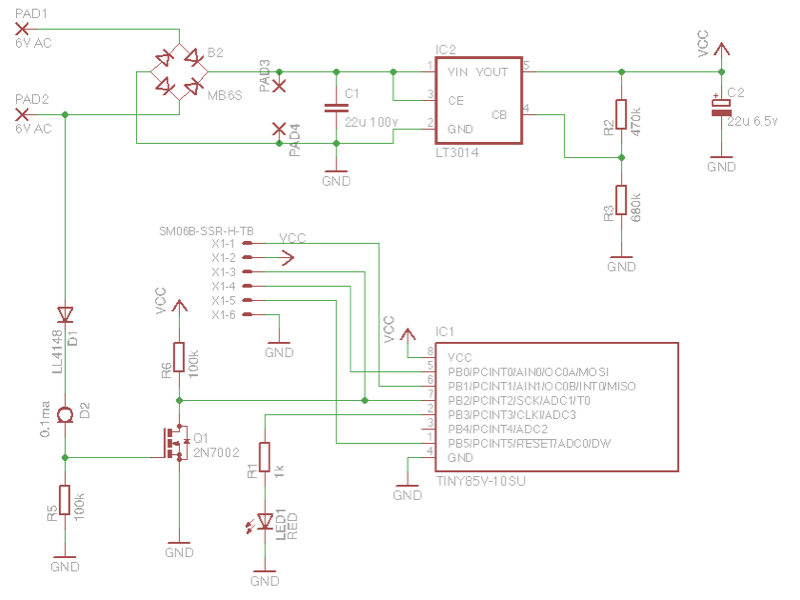
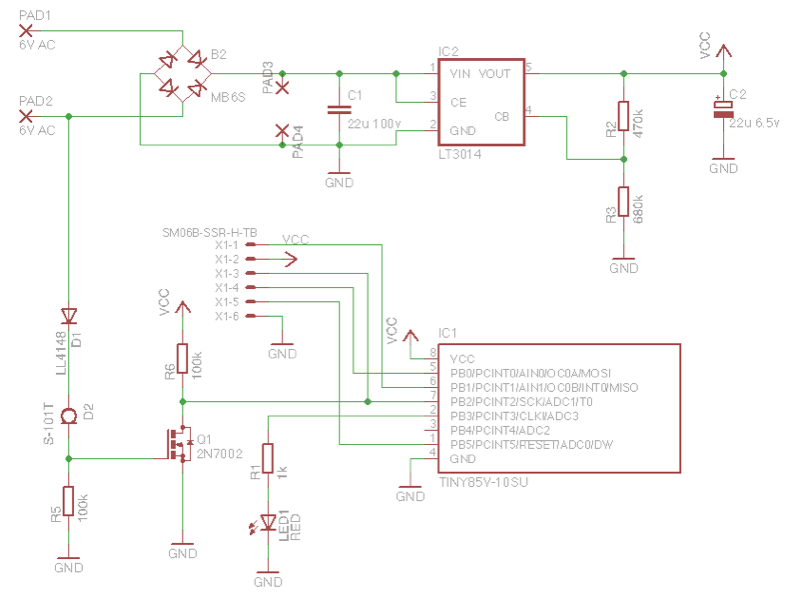
updated docs

Changed region(s): [[0.0, 0.06, 0.9688, 0.99], [0.0, 0.0, 0.2188, 0.09], [0.3125, 0.54, 0.375, 0.6]]

diff --git a/docs/Hardware.md b/docs/Hardware.md
@@ -26,7 +26,7 @@ There are two additional pads on the input side of the voltage regulator. These 
 |C1      | 4.7u 100v Ceramic | C1812          |
 |C2      | 22u 6.5v Tantalum | SMC_A          |
 |D1      | LL4148            | SOD80C         |
-|D2      | Zener 27v         | SOD80C         |
+|D2      | S-101T            | S series       |
 |IC1     | TINY85V-10SU      | SOIC-8         |
 |IC2     | LT3014            | SOT25          |
 |LED1    | RED               | 0805           |
@@ -35,7 +35,7 @@ There are two additional pads on the input side of the voltage regulator. These 
 |R2      | 470k              | 0805           |
 |R3      | 680k              | 0805           |
 |R4      | 47k               | 0805           |
-|R5      | 200k               | 0805           |
+|R5      | 200k              | 0805           |
 |R6      | 100k              | 0805           |
 |X1      | SM06B-SSR-H-TB    | SM06B-SSR-H-TB |
 
